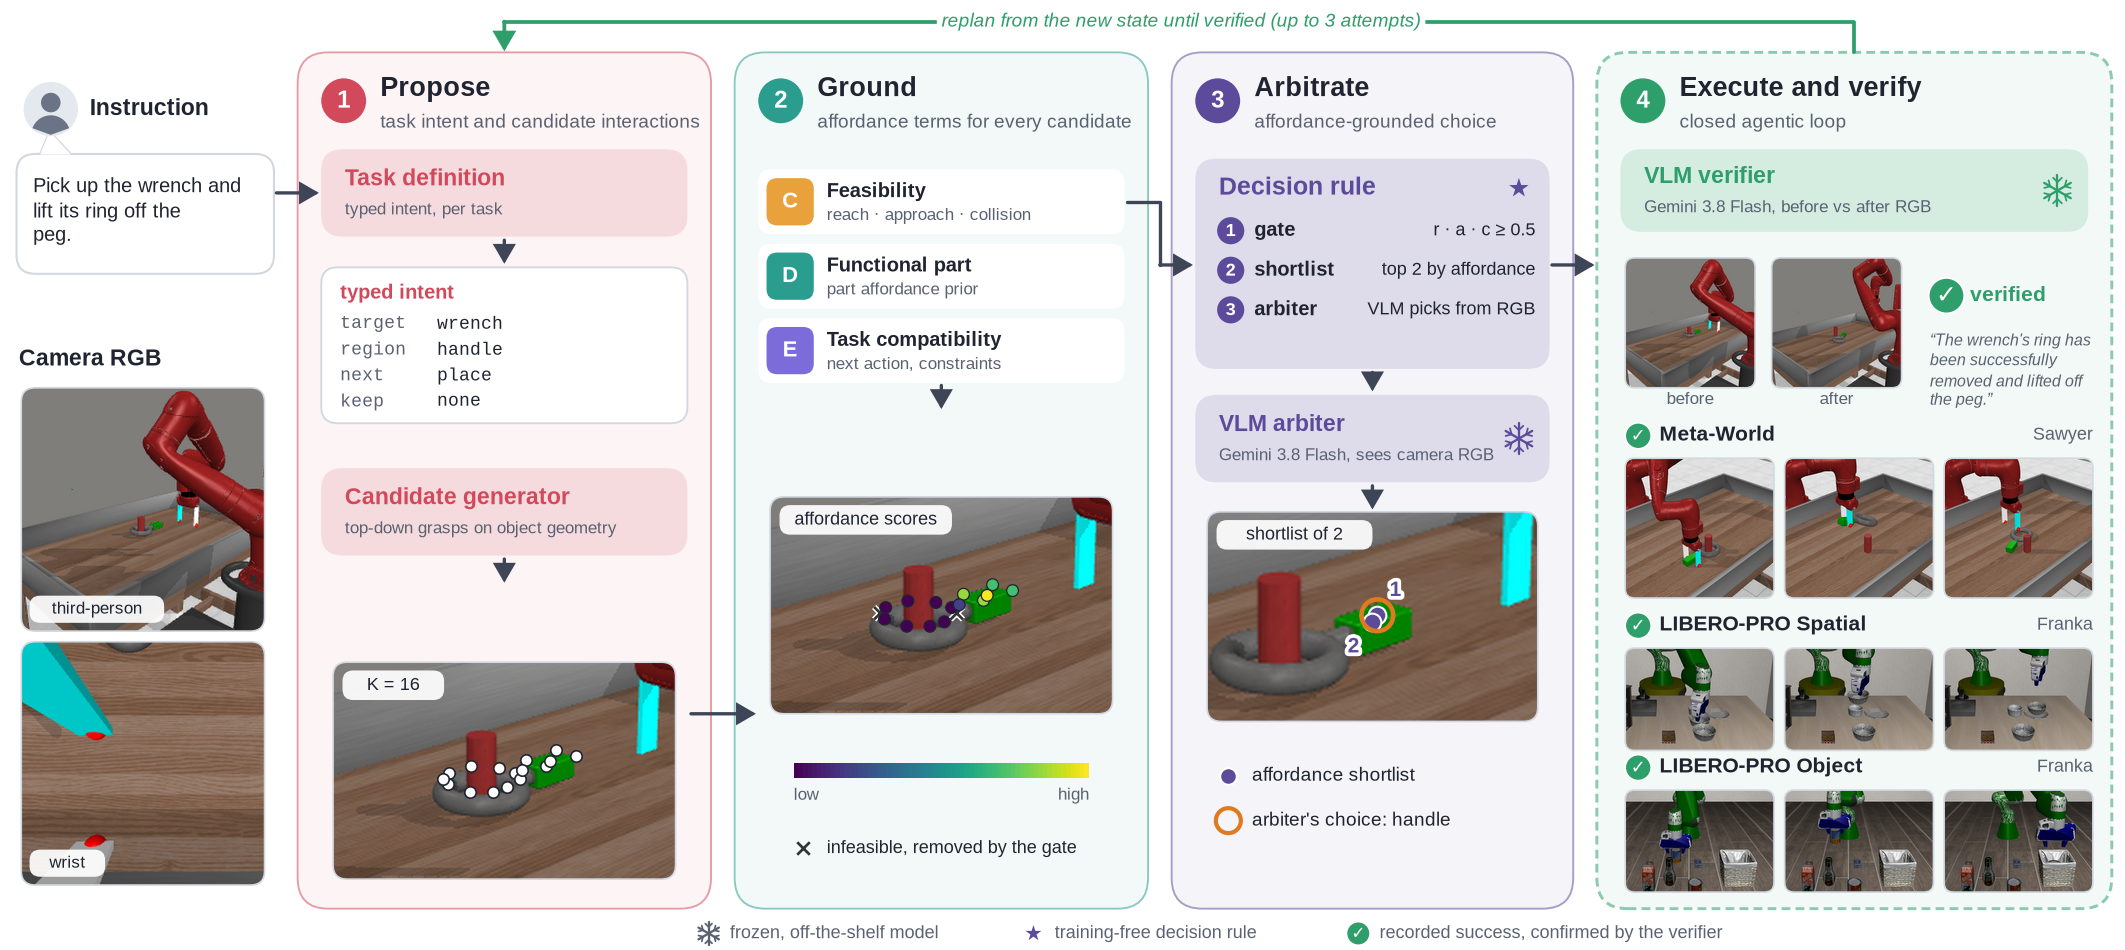
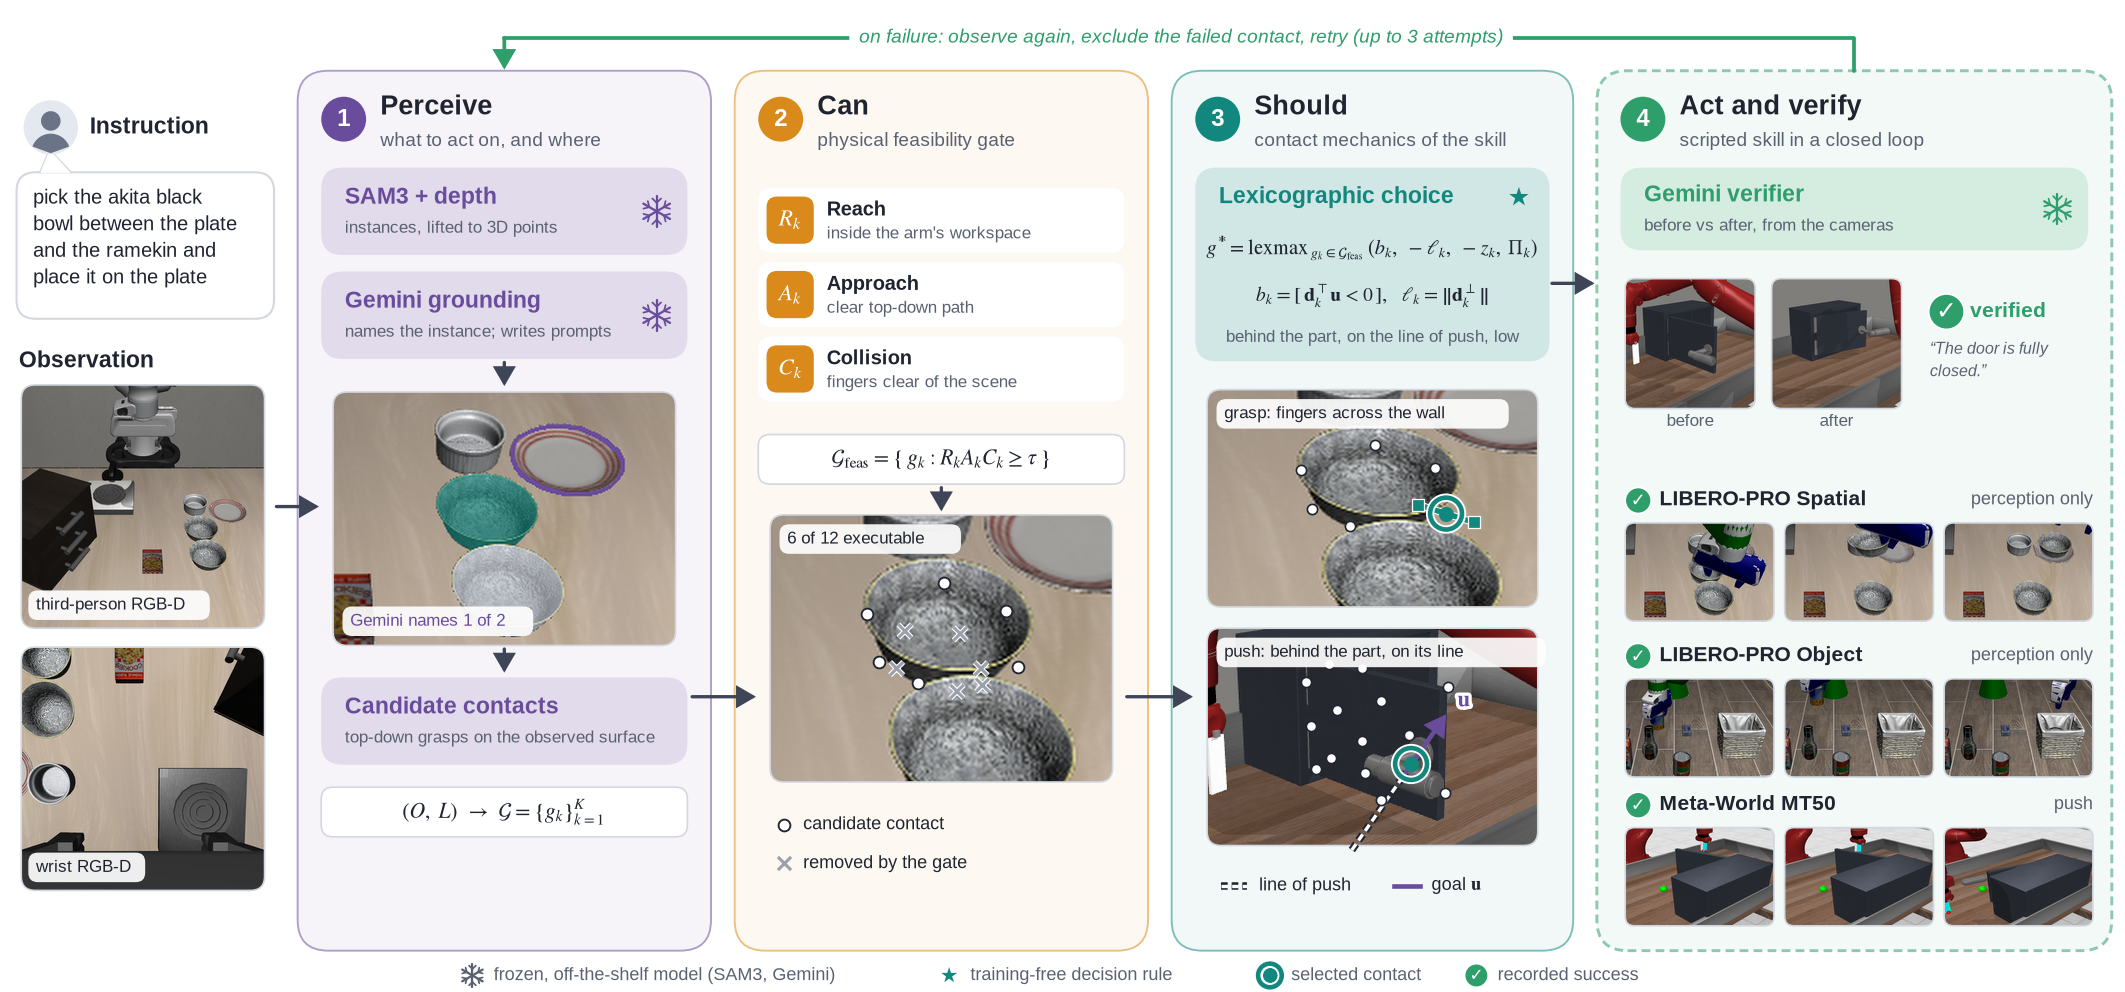
content: update framework teaser image and caption to reflect current 4-stage pipeline

diff --git a/index.html b/index.html
@@ -18,7 +18,7 @@
   <meta property="og:description" content="Remove what the arm cannot execute, then rank by function and task. Counterfactual evaluation on identical candidate sets, with rollout videos.">
   <meta property="og:url" content="https://physical-agi.github.io/AFFORD-X/">
   <meta property="og:image" content="https://physical-agi.github.io/AFFORD-X/static/images/method_framework.png">
-  <meta property="og:image:alt" content="The AFFORD-X framework drawn on logged episodes: propose a typed intent and candidate interactions, ground feasibility, functional and task affordance terms, arbitrate with a feasibility gate, an affordance shortlist and a frozen VLM, then execute and verify in a closed agentic loop">
+  <meta property="og:image:alt" content="The AFFORD-X framework: perceive instances with SAM3 and Gemini, gate feasibility (Can), rank contacts via contact mechanics and task affordance (Should), then act and verify in a closed replanning loop">
   <meta property="article:section" content="Robotics">
   <meta property="article:tag" content="robot manipulation">
   <meta property="article:tag" content="affordance">
@@ -180,17 +180,9 @@
       <div class="hero-body">
         <figure class="ai-figure" style="margin-top:0">
           <img src="static/images/method_framework.png" class="ai-zoomable"
-               alt="The AFFORD-X framework drawn on logged episodes: an instruction and the benchmark's camera RGB; Propose, a typed intent from the task definition and top-down grasp candidates; Ground, feasibility, functional-part and task-compatibility terms with infeasible candidates removed; Arbitrate, a feasibility gate, an affordance shortlist of two and a frozen VLM choosing from the image; Execute and verify, recorded successful rollouts on Meta-World and LIBERO-PRO Spatial and Object with a VLM verifier and a replan loop">
+               alt="The AFFORD-X framework drawn on logged episodes: (1) Perceive instances in RGB-D with SAM3 and Gemini and sample top-down contacts; (2) Can, gate feasibility via reach, approach and clearance; (3) Should, order feasible contacts by contact mechanics and affordance; (4) Act and verify, execute scripted skills with a Gemini verifier in a closed agentic replan loop">
           <figcaption>
-            <strong>AFFORD-X on logged episodes.</strong> <strong>Propose</strong>: a typed intent from the task
-            definition and top-down grasp candidates on the object. <strong>Ground</strong>: feasibility, functional-part
-            and task-compatibility terms for every candidate. <strong>Arbitrate</strong>: the feasibility gate removes what
-            the arm cannot execute, the two gated candidates with the highest affordance score form a shortlist, and a
-            frozen VLM (Gemini 3.8 Flash) chooses between them from the camera image. <strong>Execute and verify</strong>:
-            the executor acts, a frozen VLM verifier compares the before and after images, and an unverified attempt sends
-            the agent back to replan from the new state. The main scene is Meta-World disassemble; the rows are verified
-            successes on LIBERO-PRO Spatial and Object. Every image, score and verdict is read from logged episodes and
-            reproduced by replay, and no module is trained.
+            <strong>AFFORD-X framework on logged episodes.</strong> (1) <strong>Perceive</strong>: SAM3 segments instances in the RGB-D observation, Gemini identifies the target instance from the instruction, and top-down candidate contacts are sampled on the observed surface. (2) <strong>Can</strong>: a feasibility gate removes contacts the robot cannot reach, approach, or execute without collision. (3) <strong>Should</strong>: feasible contacts are ordered by the mechanics of the skill (preferring contacts behind the part on its line of push for pushing, and task affordance for grasping). (4) <strong>Act and verify</strong>: a scripted skill executes the contact, Gemini verifies the outcome from camera views before and after, and unverified attempts replan from the new state. All models are frozen and no parameters are trained.
           </figcaption>
         </figure>
       </div>
